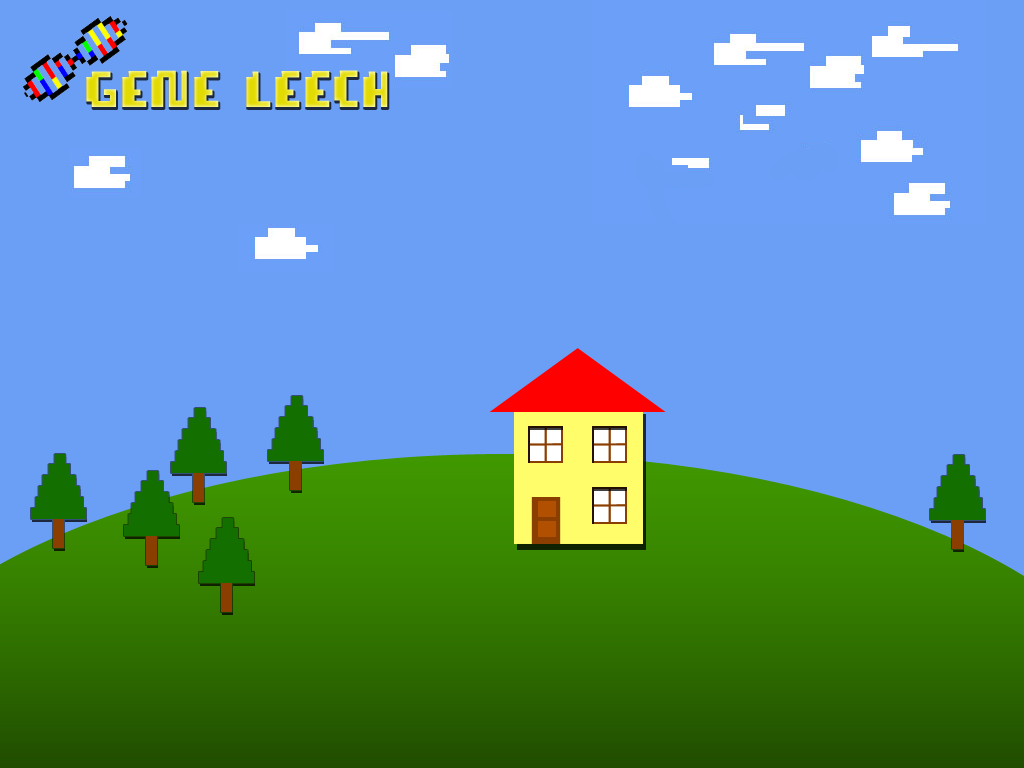
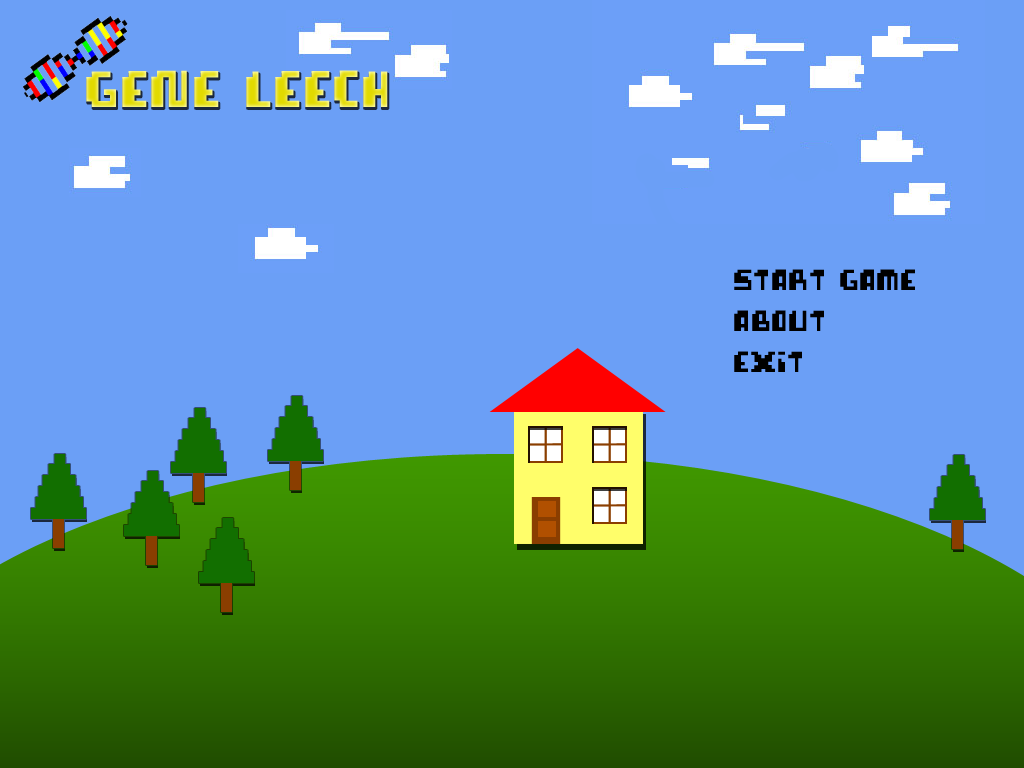
MainMenu

Changed region(s): [[0.7188, 0.3438, 0.9062, 0.5]]

diff --git a/LudumDare23/LudumDare23/Scenes/MainMenu.cs b/LudumDare23/LudumDare23/Scenes/MainMenu.cs
@@ -1,5 +1,8 @@
 using DynaStudios;
+using OpenTK.Graphics;
 using OpenTK.Graphics.OpenGL;
+using QuickFont;
+using System;
 
 namespace LudumDare23.Scenes
 {
@@ -9,6 +12,8 @@ namespace LudumDare23.Scenes
         public Engine Engine { get; set; }
 
         private int _backgroundTexture;
+        private int _cursorTexture;
+        private int _cursorYPosition = 1;
 
         public MainMenu(Engine engine)
         {
@@ -18,10 +23,11 @@ namespace LudumDare23.Scenes
 
         public void doRender()
         {
+
             GL.LoadIdentity();
+            GL.BindTexture(TextureTarget.Texture2D, _backgroundTexture);
 
             GL.Begin(BeginMode.Quads);
-            GL.BindTexture(TextureTarget.Texture2D, _backgroundTexture);
 
             GL.TexCoord2(0, 1); GL.Vertex3(-1.0f, -1.0f, 1.0f);
             GL.TexCoord2(1, 1); GL.Vertex3(1.0f, -1.0f, 1.0f);
@@ -29,10 +35,28 @@ namespace LudumDare23.Scenes
             GL.TexCoord2(0, 0); GL.Vertex3(-1.0f, 1.0f, 1.0f);
 
             GL.End();
+
+            //Render Cursor on his Position here
+
+            GL.MatrixMode(MatrixMode.Modelview);
+            GL.Translate(50, 0, 0);
+            GL.LoadIdentity();
+            GL.BindTexture(TextureTarget.Texture2D, _cursorTexture);
+
+
+            GL.Begin(BeginMode.Quads);
+
+            GL.TexCoord2(0, 1); GL.Vertex3(-0.05f, -0.035f, 0.05f);
+            GL.TexCoord2(1, 1); GL.Vertex3(0.05f, -0.035f, 0.05f);
+            GL.TexCoord2(1, 0); GL.Vertex3(0.05f, 0.035f, 0.05f);
+            GL.TexCoord2(0, 0); GL.Vertex3(-0.05f, 0.035f, 0.05f);
+
+            GL.End();
         }
 
         public void loadScene()
         {
+
             Engine.Camera.WorldObject = null;
 
             GL.Viewport(new System.Drawing.Size(Engine.Width, Engine.Height));
@@ -43,18 +67,20 @@ namespace LudumDare23.Scenes
             GL.Ortho(-5.0f, 5.0f, -30.0f, 15.0f, -1.0f, 1.0f);
             GL.Disable(EnableCap.DepthTest);
 
-            GL.Disable(EnableCap.CullFace);
+            //GL.Disable(EnableCap.CullFace);
             GL.Enable(EnableCap.Texture2D);
-            GL.Disable(EnableCap.Blend);
-            GL.PixelStore(PixelStoreParameter.UnpackAlignment, 1);
+            //GL.PixelStore(PixelStoreParameter.UnpackAlignment, 1);
 
+            _cursorTexture = Engine.TextureManager.getTexture(@"Images\Game\menuselection.png");
             _backgroundTexture = Engine.TextureManager.getTexture(@"Images\Game\mainmenu.png");
-          
+
         }
 
         public void unloadScene()
         {
             GL.DeleteTexture(_backgroundTexture);
+            GL.DeleteTexture(_cursorTexture);
         }
+
     }
 }

diff --git a/LudumDare23/LudumDare23/Scenes/SplashScreen.cs b/LudumDare23/LudumDare23/Scenes/SplashScreen.cs
@@ -11,8 +11,8 @@ namespace LudumDare23.Scenes
 
         private int _splashScreenTexture;
 
-        //3 Seconds visible
-        public int splashVisisble = 2;
+        //2 Seconds visible
+        public int splashVisible = 2;
 
         //Private Vars
         private Stopwatch _watch;
@@ -46,7 +46,7 @@ namespace LudumDare23.Scenes
 
             GL.End();
 
-            if (timeDifference > (long)(splashVisisble * 1000))
+            if (timeDifference > (long)(splashVisible * 1000))
             {
                 //After 3 seconds switch to Main Menu
                 Engine.switchScene("mainMenu");

diff --git a/LudumDare23/LudumDare23/Game.cs b/LudumDare23/LudumDare23/Game.cs
@@ -21,7 +21,7 @@ namespace LudumDare23
             addScene("mainMenu", mainMenuScreen);
             
             //This is the Start Screen. Screens can switch screens.
-            switchScene("splashScreen");
+            switchScene("mainMenu");
         }
 
         static void Main(string[] args)
